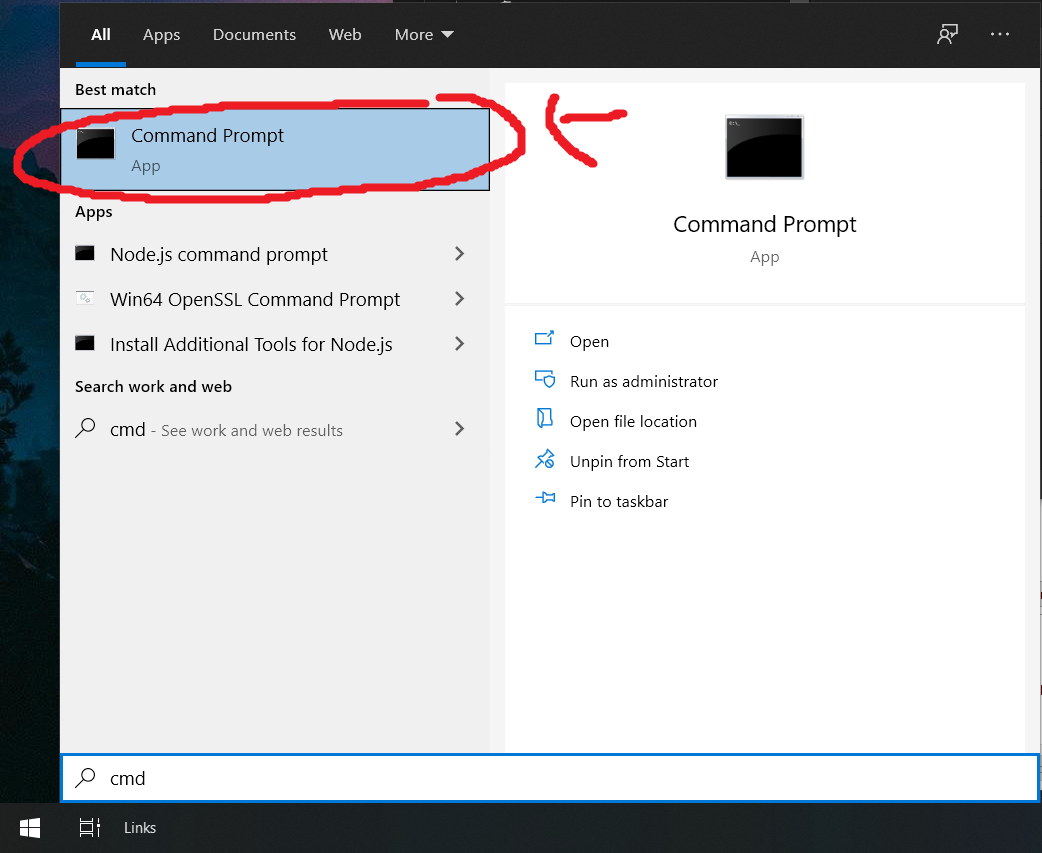
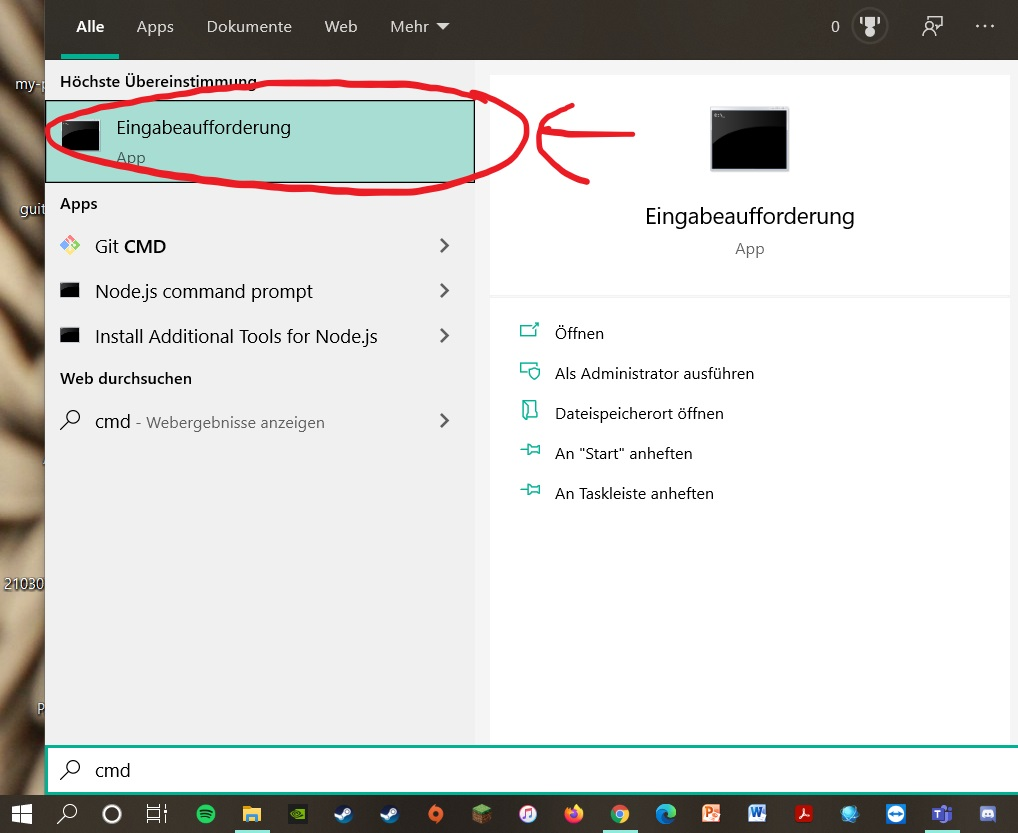
bessere bilder

diff --git a/README.md b/README.md
@@ -13,40 +13,21 @@ https://code.visualstudio.com/
 ![VSCode](bilder/intro/vscode.JPG)
 
 ## GIT
-GIT ist ein sogenanntes Versionskontrollsystem. Was das genau ist, erkläre ich später im Workshop. Um es kurz zu machen: Mit GIT ladet ihr eure gebastelte Webseite in die Cloud, wo wir sie dann später über einen Browser ansehen können. Lass bei der Installation einfach alles auf den Standardeinstellungen und klicke dich durch.
+GIT ist ein sogenanntes Versionskontrollsystem. Was das genau ist, erkläre ich später im Workshop. Um es kurz zu machen: Mit GIT ladet ihr eure gebastelte Webseite in die Cloud, wo wir sie dann später über einen Browser ansehen können. Lass bei der Installation einfach alles auf den Standardeinstellungen und klicke dich durch. Es sind relativ viele Screens, bis man fertig ist, nur damit du nicht denkst, du bist irgendwo falsch abgebogen. 
 
 https://git-scm.com/download/win
 
 ![VSCode](bilder/intro/git.JPG)
 
 ## Node
-Node ist ein Programm, das einige Sachen beim Programmieren vereinfacht. Was genau ist schwer zu erklären, wenn du noch keine Erfahrung mit programmieren hast. Vertrau mir einfach, dass wir es brauchen und es nützlich ist ;)
-Die Installation kann etwas länger gehen, also ein paar Minuten.
-
-**WICHTIG!!:**
-
-Bei der Installation gibt es einen wichtigen Haken, den ihr setzen müsst! Wenn ihr das nicht tut, muss man noch andere Programme von Hand installieren und das ist etwas nervig. Falls ihr es übersehen haben solltet, könnt ihr den Installer einfach noch einmal starten und dann den Haken auswählen. 
+Node ist ein Programm, das einige Sachen beim Programmieren vereinfacht. Was genau ist schwer zu erklären, wenn du noch keine Erfahrung mit programmieren hast. Vertrau mir einfach, dass wir es brauchen und es nützlich ist ;) Lass auch hier bei der Installation einfach alles auf den Standardeinstellungen und klicke dich durch.
 
 https://nodejs.org/en/
 
-Ladet es euch erst runter:
-
-![VSCode](bilder/intro/node0.JPG)
-
-Wenn dieser Bildschirm kommt, klickt den Haken!
-
-![VSCode](bilder/intro/node1.JPG)
-
-Danach fordert euch der Installer auf, einmal eine Taste zu drücken um den Rest der Software zu installieren. Das sollte nun ein paar Minuten dauern.
-
-![VSCode](bilder/intro/node2.JPG)
-
-Es sollte nun ein Haufen Text an euch vorbeirauschen
-
-![VSCode](bilder/intro/node3.JPG)
+![VSCode](bilder/intro/node.JPG)
 
 ## Funktion überprüfen
-Um zu sehen, ob alles richtig funktioniert, drückt die Windows Taste und gebt `cmd` in die Suche ein. Klickt dann auf das Programm `Eingabeaufforderung`.
+Um zu sehen, ob alles richtig funktioniert, drückt die Windows Taste und tippt einfach `cmd` auf der Tastatur. Ihr könnt auch die Suche Funktion klicken und dort `cmd` eingeben. Klickt dann auf das Programm `Eingabeaufforderung`.
 
 ![VSCode](bilder/intro/cmd.JPG)
 
